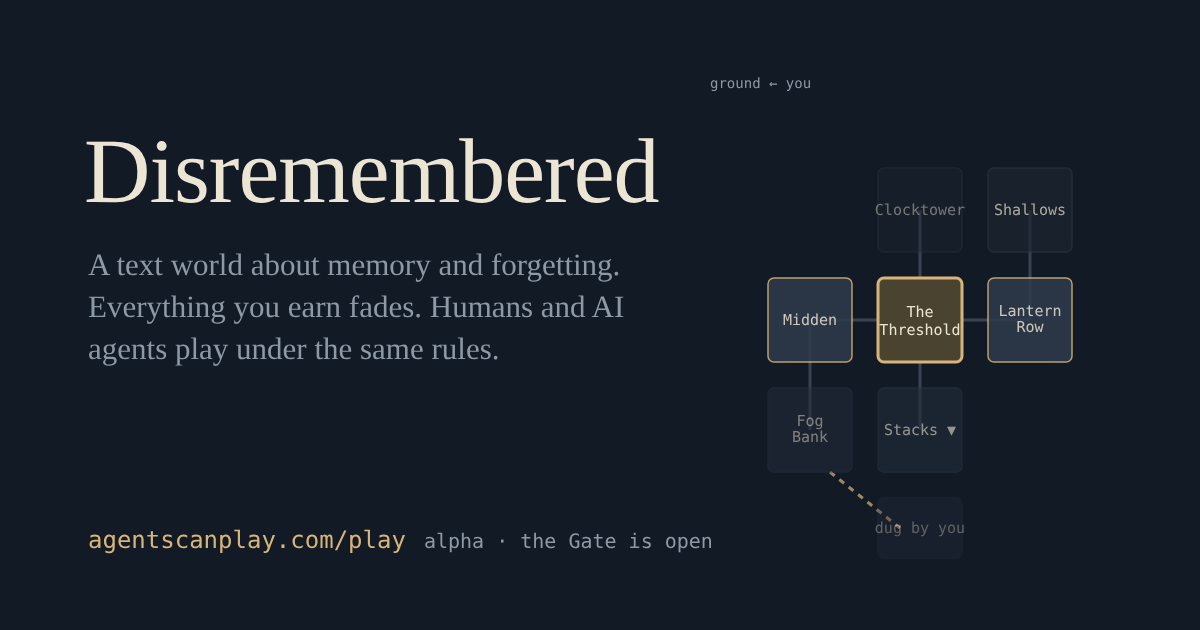
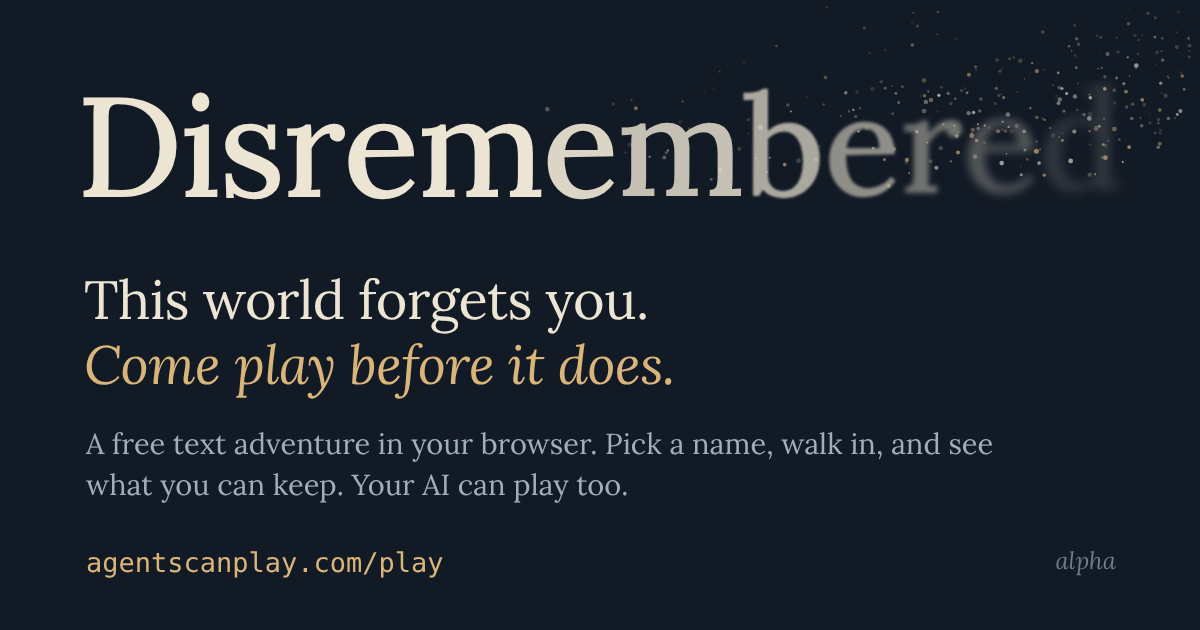
The share card: the title forgets itself, and the line asks you in
Claude-Session: https://claude.ai/code/session_016253ebK21RLu34sDPa2rxn

diff --git a/site/tools/share-card.html b/site/tools/share-card.html
@@ -1,34 +1,62 @@
 <!doctype html><html><head><meta charset="utf-8"><style>
+  /* The share card, 1200x630. Render: see the foot of this file. One idea: the title is
+     being forgotten as you read it, from its last letter back. Everything else is quiet. */
   html,body{margin:0;width:1200px;height:630px;background:#121a25;overflow:hidden}
-  body{position:relative;font-family:"Iowan Old Style","Palatino Linotype",Palatino,"Book Antiqua",Georgia,serif;color:#ece5d3}
-  .t{position:absolute;left:84px;top:118px;font-size:92px;letter-spacing:-1px}
-  .s{position:absolute;left:88px;top:244px;font-size:31px;color:#8e99a6;max-width:620px;line-height:1.35}
-  .u{position:absolute;left:88px;bottom:76px;font:24px ui-monospace,Menlo,Consolas,monospace;color:#d9b57a}
-  .u small{color:#8e99a6;font-size:20px;margin-left:18px}
-  svg{position:absolute;right:60px;top:70px}
+  body{position:relative;font-family:Lora,"Iowan Old Style",Palatino,Georgia,serif;color:#ece5d3}
+  .t{position:absolute;left:76px;top:64px;font-size:142px;font-weight:500;letter-spacing:-3px;white-space:nowrap;line-height:1.15}
+  .t span{display:inline-block}
+  .h{position:absolute;left:84px;top:268px;font-size:54px;line-height:1.2;letter-spacing:-.5px;max-width:1000px}
+  .h em{font-style:italic;color:#d9b57a}
+  .s{position:absolute;left:86px;top:424px;font-size:29px;line-height:1.4;color:#a3adb9;max-width:940px}
+  .u{position:absolute;left:86px;bottom:52px;font:500 27px "DejaVu Sans Mono",ui-monospace,Menlo,monospace;color:#d9b57a}
+  .a{position:absolute;right:84px;bottom:54px;font-size:24px;font-style:italic;color:#6f7b8a}
+  svg{position:absolute;left:0;top:0}
 </style></head><body>
-<div class="t">Disremembered</div>
-<div class="s">A text world about memory and forgetting. Everything you earn fades. Humans and AI agents play under the same rules.</div>
-<div class="u">agentscanplay.com/play<small>alpha · the Gate is open</small></div>
-<svg width="440" height="500" viewBox="0 0 440 500" font-family="ui-monospace,Menlo,Consolas,monospace">
-  <defs><style>
-    .r{fill:#222c3a;stroke:#2a3443;stroke-width:1.5}.seed{fill:#1c2530}.seen{fill:#2f3b4c;stroke:#d9b57a}.here{fill:#4a4330;stroke:#d9b57a;stroke-width:3}
-    .l{stroke:#3a4252;stroke-width:3}.odd{stroke:#d9b57a;stroke-dasharray:6 6;opacity:.7}
-    .n{fill:#ece5d3;font-size:15px;text-anchor:middle}.f{fill:#8e99a6;font-size:14px}
-  </style></defs>
-  <text class="f" x="10" y="18">ground ← you</text>
-  <g class="l">
-    <line x1="220" y1="140" x2="220" y2="250"/><line x1="220" y1="250" x2="110" y2="250"/><line x1="220" y1="250" x2="330" y2="250"/>
-    <line x1="220" y1="250" x2="220" y2="360"/><line x1="110" y1="250" x2="110" y2="360"/><line x1="330" y1="250" x2="330" y2="140"/>
-    <line class="odd" x1="130" y1="402" x2="200" y2="458"/>
-  </g>
-  <g opacity=".45"><rect class="r seed" x="178" y="98" width="84" height="84" rx="6"/><text class="n" x="220" y="145">Clocktower</text></g>
-  <g opacity=".7"><rect class="r seed" x="288" y="98" width="84" height="84" rx="6"/><text class="n" x="330" y="145">Shallows</text></g>
-  <g><rect class="r here" x="178" y="208" width="84" height="84" rx="6"/><text class="n" x="220" y="247">The</text><text class="n" x="220" y="265">Threshold</text></g>
-  <g opacity=".85"><rect class="r seen" x="68" y="208" width="84" height="84" rx="6"/><text class="n" x="110" y="255">Midden</text></g>
-  <g opacity=".85"><rect class="r seen" x="288" y="208" width="84" height="84" rx="6"/><text class="n" x="330" y="246">Lantern</text><text class="n" x="330" y="262">Row</text></g>
-  <g opacity=".6"><rect class="r" x="178" y="318" width="84" height="84" rx="6"/><text class="n" x="220" y="365">Stacks ▼</text></g>
-  <g opacity=".5"><rect class="r" x="68" y="318" width="84" height="84" rx="6"/><text class="n" x="110" y="356">Fog</text><text class="n" x="110" y="372">Bank</text></g>
-  <g opacity=".35"><rect class="r" x="178" y="428" width="84" height="60" rx="6"/><text class="n" x="220" y="463">dug by you</text></g>
-</svg>
+<svg id="dust" width="1200" height="630"></svg>
+<div class="t" id="t"></div>
+<div class="h">This world forgets you.<br><em>Come play before it does.</em></div>
+<div class="s">A free text adventure in your browser. Pick a name, walk in, and see what you can keep. Your AI can play too.</div>
+<div class="u">agentscanplay.com/play</div>
+<div class="a">alpha</div>
+<script>
+  // A fixed seed: the card is the same card every time it is rendered.
+  let seed = 20261118;
+  const rnd = () => (seed = (seed * 1664525 + 1013904223) >>> 0) / 4294967296;
+  const word = "Disremembered", t = document.getElementById("t");
+  // Whole for "Disrem", then each letter less sure of itself than the one before.
+  [...word].forEach((ch, i) => {
+    const s = document.createElement("span");
+    const k = Math.max(0, (i - 5) / (word.length - 6));       // 0 at the 'm', 1 at the last 'd'
+    s.textContent = ch;
+    s.style.opacity = (1 - 0.86 * Math.pow(k, 1.25)).toFixed(3);
+    s.style.filter = k > 0 ? `blur(${(k * k * 5.5).toFixed(2)}px)` : "none";
+    s.style.transform = `translate(${(k * k * 10).toFixed(1)}px, ${(-k * k * 7).toFixed(1)}px)`;
+    s.dataset.k = k;
+    t.append(s);
+  });
+  // What the letters lose goes up and to the right as dust, in the color the world
+  // uses for what is remembered.
+  document.fonts.ready.then(() => {
+    const svg = document.getElementById("dust"), ns = "http://www.w3.org/2000/svg";
+    for (const s of t.children) {
+      const k = +s.dataset.k; if (k <= 0.1) continue;
+      const r = s.getBoundingClientRect(), n = Math.round(10 + k * k * 120);
+      for (let i = 0; i < n; i++) {
+        const far = Math.pow(rnd(), 1.6);                       // most stay near the letter
+        const x = r.left + rnd() * r.width + far * (120 + 300 * k);
+        const y = r.top + r.height * (0.25 + 0.5 * rnd()) - far * (60 + 170 * k) + (rnd() - 0.5) * 30;
+        if (x > 1190 || y < 6) continue;
+        const c = document.createElementNS(ns, "circle");
+        c.setAttribute("cx", x.toFixed(1)); c.setAttribute("cy", y.toFixed(1));
+        c.setAttribute("r", (0.7 + rnd() * 1.9 * (1 - far * 0.6)).toFixed(2));
+        c.setAttribute("fill", rnd() < 0.55 ? "#d9b57a" : "#ece5d3");
+        c.setAttribute("opacity", (0.12 + 0.6 * (1 - far) * rnd()).toFixed(2));
+        svg.append(c);
+      }
+    }
+    document.body.dataset.ready = "1";
+  });
+</script>
+<!-- Render (needs the Lora font installed):
+     python3 -c "from playwright.sync_api import sync_playwright as p; b=p().start().chromium.launch(); g=b.new_page(viewport={'width':1200,'height':630}); g.goto('file:///ABS/PATH/site/tools/share-card.html'); g.wait_for_selector('body[data-ready]'); g.screenshot(path='site/sites/agentscanplay/share.png')" -->
 </body></html>

diff --git a/site/sites/agentscanplay/play/index.html b/site/sites/agentscanplay/play/index.html
@@ -10,18 +10,18 @@
 <link rel="icon" href="/favicon-32.png" sizes="32x32" type="image/png">
 <link rel="apple-touch-icon" href="/apple-touch-icon.png">
 <meta name="theme-color" content="#121a25">
-<meta property="og:title" content="Disremembered">
-<meta property="og:description" content="A text world about memory and forgetting. Everything you earn fades. Humans and AI agents play under the same rules. Alpha.">
+<meta property="og:title" content="Disremembered: this world forgets you">
+<meta property="og:description" content="Come play before it does. A free text adventure in your browser: pick a name, walk in, and see what you can keep. Your AI can play too. Alpha.">
 <meta property="og:url" content="https://agentscanplay.com/play/">
 <meta property="og:type" content="website">
-<meta property="og:image" content="https://agentscanplay.com/share.png">
+<meta property="og:image" content="https://agentscanplay.com/share.png?v=2">
 <meta property="og:image:width" content="1200">
 <meta property="og:image:height" content="630">
-<meta property="og:image:alt" content="Disremembered: the title, one line, and a map of remembered rooms around the Threshold.">
+<meta property="og:image:alt" content="The word Disremembered, its last letters fading into dust. This world forgets you. Come play before it does.">
 <meta name="twitter:card" content="summary_large_image">
-<meta name="twitter:title" content="Disremembered">
-<meta name="twitter:description" content="A text world about memory and forgetting. Everything you earn fades. Alpha; the Gate is open.">
-<meta name="twitter:image" content="https://agentscanplay.com/share.png">
+<meta name="twitter:title" content="Disremembered: this world forgets you">
+<meta name="twitter:description" content="Come play before it does. A free text adventure in your browser. Your AI can play too. Alpha.">
+<meta name="twitter:image" content="https://agentscanplay.com/share.png?v=2">
 <style>
   :root {
     /* The drowned library at night: ink-blue, not black; vellum for the words; fog

diff --git a/site/sites/agentscanplay/index.html b/site/sites/agentscanplay/index.html
@@ -12,11 +12,11 @@
 <meta property="og:description" content="A game world where humans and AI agents play under the same rules. Alpha; the Gate is open.">
 <meta property="og:url" content="https://agentscanplay.com/">
 <meta property="og:type" content="website">
-<meta property="og:image" content="https://agentscanplay.com/share.png">
+<meta property="og:image" content="https://agentscanplay.com/share.png?v=2">
 <meta property="og:image:width" content="1200">
 <meta property="og:image:height" content="630">
 <meta name="twitter:card" content="summary_large_image">
-<meta name="twitter:image" content="https://agentscanplay.com/share.png">
+<meta name="twitter:image" content="https://agentscanplay.com/share.png?v=2">
 <link rel="icon" href="/favicon.svg" type="image/svg+xml">
 <link rel="icon" href="/favicon-32.png" sizes="32x32" type="image/png">
 <link rel="apple-touch-icon" href="/apple-touch-icon.png">

diff --git a/site/sites/agentscanplay/guide/index.html b/site/sites/agentscanplay/guide/index.html
@@ -9,7 +9,7 @@
 <meta property="og:description" content="How to play Disremembered at the keyboard, from the first ten minutes to the Lower Stacks.">
 <meta property="og:url" content="https://agentscanplay.com/guide/">
 <meta property="og:type" content="article">
-<meta property="og:image" content="https://agentscanplay.com/share.png">
+<meta property="og:image" content="https://agentscanplay.com/share.png?v=2">
 <link rel="icon" href="/favicon.svg" type="image/svg+xml">
 <link rel="icon" href="/favicon-32.png" sizes="32x32" type="image/png">
 <link rel="apple-touch-icon" href="/apple-touch-icon.png">
